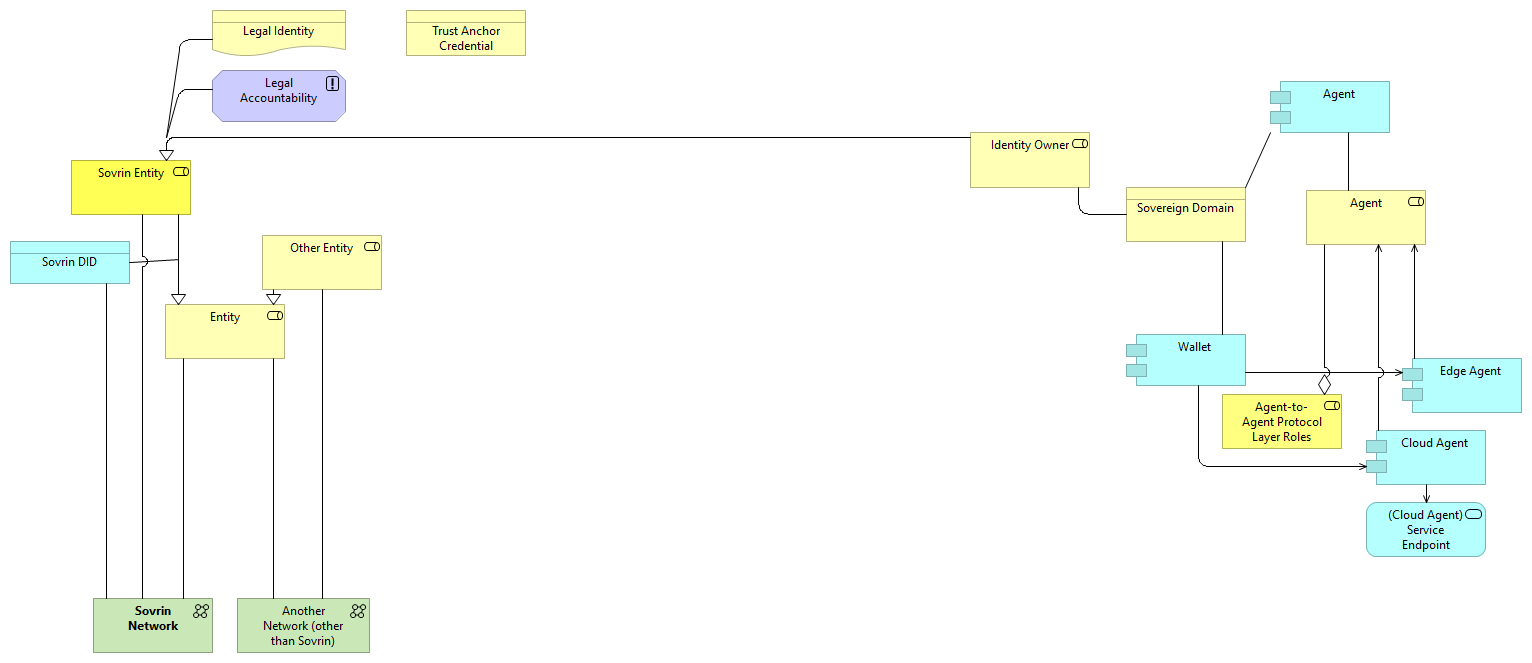
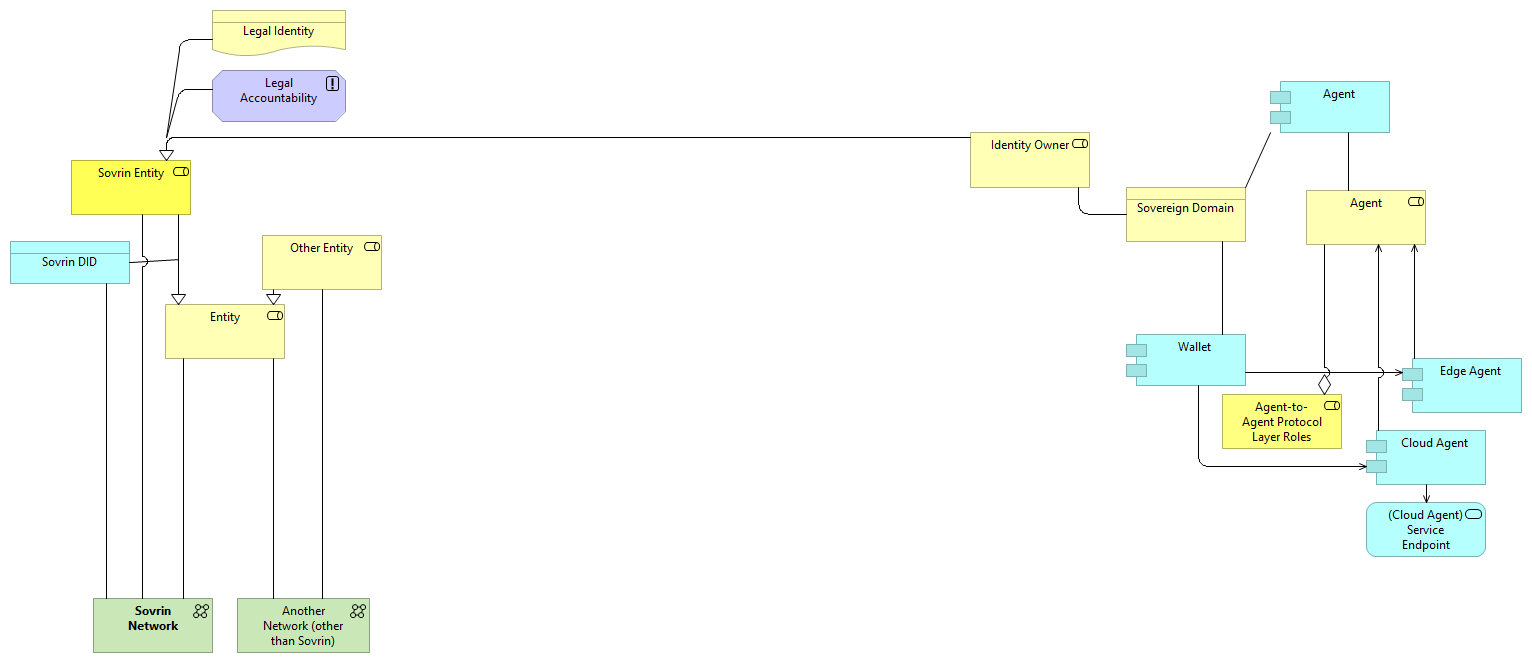
Remove extraneous element from Appendix V view

Changed region(s): [[0.2454, 0.0, 0.3681, 0.0905]]

diff --git a/docs/f0feb6de-1a0b-4195-8a50-ae08d685dbb6/views/8d09aa3a-c46b-4200-b12c-c8ae4ef90ecb.html b/docs/f0feb6de-1a0b-4195-8a50-ae08d685dbb6/views/8d09aa3a-c46b-4200-b12c-c8ae4ef90ecb.html
@@ -41,7 +41,6 @@
 						<area shape="rect" coords="212,10,346,56" href="../elements/b5374574-e340-4486-9391-13b70c133c62.html"  target="element">
 						<area shape="rect" coords="1126,187,1246,242" href="../elements/ad933124-84f3-4484-8bf8-c4a8229b1d1a.html"  target="element">
 						<area shape="rect" coords="1126,334,1246,386" href="../elements/33b1ad89-19da-40f2-a1a3-6d99ef1c8e74.html"  target="element">
-						<area shape="rect" coords="406,10,526,56" href="../elements/308efc1d-de16-4ebb-8620-47448fce78a7.html"  target="element">
 						<area shape="rect" coords="1366,502,1486,557" href="../elements/190a8fae-1ca9-40fa-a2b3-7a7a232f529f.html"  target="element">
 						<area shape="rect" coords="1366,430,1486,485" href="../elements/44abb8ea-c216-4a9b-9467-8a3676bd1f9b.html"  target="element">
 						<area shape="rect" coords="1402,358,1522,413" href="../elements/d28f49a5-d349-417d-8f32-326f1af45c66.html"  target="element">
@@ -99,7 +98,6 @@ Sovrin Governance Framework Comprehensive Architecture Reference Model (SOVRIN A
 											<tr><td> <a href="../elements/b5374574-e340-4486-9391-13b70c133c62.html" target="element"> Legal Identity </a> </td><td class="i18n-elementtype-Representation"></td></tr>
 											<tr><td> <a href="../elements/ad933124-84f3-4484-8bf8-c4a8229b1d1a.html" target="element"> Sovereign Domain </a> </td><td class="i18n-elementtype-BusinessObject"></td></tr>
 											<tr><td> <a href="../elements/33b1ad89-19da-40f2-a1a3-6d99ef1c8e74.html" target="element"> Wallet </a> </td><td class="i18n-elementtype-ApplicationComponent"></td></tr>
-											<tr><td> <a href="../elements/308efc1d-de16-4ebb-8620-47448fce78a7.html" target="element"> Trust Anchor Credential </a> </td><td class="i18n-elementtype-BusinessObject"></td></tr>
 											<tr><td> <a href="../elements/190a8fae-1ca9-40fa-a2b3-7a7a232f529f.html" target="element"> (Cloud Agent) Service Endpoint </a> </td><td class="i18n-elementtype-ApplicationService"></td></tr>
 											<tr><td> <a href="../elements/44abb8ea-c216-4a9b-9467-8a3676bd1f9b.html" target="element"> Cloud Agent </a> </td><td class="i18n-elementtype-ApplicationComponent"></td></tr>
 											<tr><td> <a href="../elements/d28f49a5-d349-417d-8f32-326f1af45c66.html" target="element"> Edge Agent </a> </td><td class="i18n-elementtype-ApplicationComponent"></td></tr>

diff --git a/docs/f0feb6de-1a0b-4195-8a50-ae08d685dbb6/views/dd018504-7604-4045-89d1-b5e86a2a9037.html b/docs/f0feb6de-1a0b-4195-8a50-ae08d685dbb6/views/dd018504-7604-4045-89d1-b5e86a2a9037.html
@@ -39,7 +39,6 @@
 						<area shape="rect" coords="752,310,886,356" href="../elements/b5374574-e340-4486-9391-13b70c133c62.html"  target="element">
 						<area shape="rect" coords="154,262,274,317" href="../elements/641000b5-9fdc-4505-ba24-458a48a34b78.html"  target="element">
 						<area shape="rect" coords="10,220,130,269" href="../elements/0345a6a3-4824-429c-b1f9-4a83f75c02bd.html"  target="element">
-						<area shape="rect" coords="946,310,1066,356" href="../elements/308efc1d-de16-4ebb-8620-47448fce78a7.html"  target="element">
 						<area shape="rect" coords="214,94,334,149" href="../elements/10b11c52-2d86-431f-80e9-09bafca31978.html"  target="element">
 						<area shape="rect" coords="82,94,202,149" href="../elements/5163ea2e-0807-4aeb-805c-bfdd45c510c6.html"  target="element">
 						<area shape="rect" coords="21,10,141,65" href="../elements/bcc1ad99-3542-4542-b94e-a4336089ea61.html"  target="element">
@@ -97,7 +96,6 @@ Sovrin Governance Framework Comprehensive Architecture Reference Model (SOVRIN A
 											<tr><td> <a href="../elements/b5374574-e340-4486-9391-13b70c133c62.html" target="element"> Legal Identity </a> </td><td class="i18n-elementtype-Representation"></td></tr>
 											<tr><td> <a href="../elements/641000b5-9fdc-4505-ba24-458a48a34b78.html" target="element"> Thing Controller </a> </td><td class="i18n-elementtype-BusinessRole"></td></tr>
 											<tr><td> <a href="../elements/0345a6a3-4824-429c-b1f9-4a83f75c02bd.html" target="element"> Thing Controller Credential </a> </td><td class="i18n-elementtype-BusinessObject"></td></tr>
-											<tr><td> <a href="../elements/308efc1d-de16-4ebb-8620-47448fce78a7.html" target="element"> Trust Anchor Credential </a> </td><td class="i18n-elementtype-BusinessObject"></td></tr>
 											<tr><td> <a href="../elements/10b11c52-2d86-431f-80e9-09bafca31978.html" target="element"> Natural Thing </a> </td><td class="i18n-elementtype-BusinessRole"></td></tr>
 											<tr><td> <a href="../elements/5163ea2e-0807-4aeb-805c-bfdd45c510c6.html" target="element"> Man-Made Thing </a> </td><td class="i18n-elementtype-BusinessRole"></td></tr>
 											<tr><td> <a href="../elements/bcc1ad99-3542-4542-b94e-a4336089ea61.html" target="element"> Active Thing </a> </td><td class="i18n-elementtype-BusinessRole"></td></tr>
